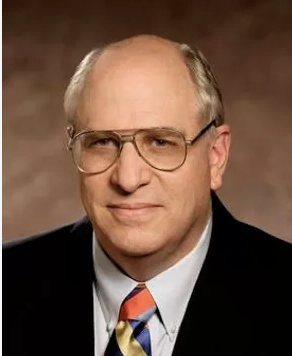
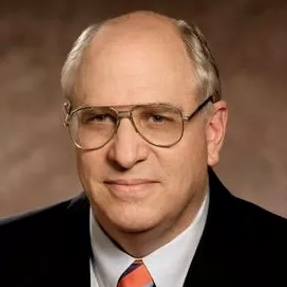
commented out a lot of things, adjusted some text, changed about us section to circle images

Changed region(s): [[0.0, 0.0, 1.0, 1.0], [0.1951, 0.0279, 0.7805, 0.3066], [0.8362, 0.0, 0.8641, 0.0279]]

diff --git a/index.html b/index.html
@@ -69,7 +69,11 @@
     <div class="container">
       <h1>Welcome!</h1>
       <p>
-        Value proposition goes here.
+        Sensole is an insole biometric monitoring device for Parkinson’s
+        patients that acts as both a bridge between the doctor’s office and a
+        patient’s daily activities, and as a research tool to further understand
+        potential diagnosis patterns and disease progression.  At the same time,
+        Sensole empowers patients to take part in their own healthcare.
       </p>
 
       <h2>How can we help you?</h2>
@@ -86,6 +90,8 @@
           <h2>Patients</h2>
         </div>
         <h3>You're taking charge of your healthcare.</h3>
+
+        <h4>Why Sensole?</h4>
 
         <h4>How to use:</h4>
         <ol>
@@ -106,18 +112,13 @@
           </li>
         </ol>
 
+        <!--
         <div align="center">
           <video height="300px" width="500px" controls autostart="false">
             <source src="./placeholder-video.mp4" type="video/mp4">
           </video>
         </div>
-
-        <form action="action_page.php">
-          <h2>Keep in Touch!</h2>
-          <label><b>Email:</b></label>
-          <input type="text" placeholder="Enter Email" name="email" required>
-          <button type="submit" class="signupbtn">Sign Up</button>
-        </form>
+      -->
 
       </section>
     </div>
@@ -159,18 +160,13 @@
           in culpa qui officia deserunt mollit anim id est laborum."
         </p>
 
+        <!--
         <div align="center">
           <video height="300px" width="500px" controls autostart="false">
             <source src="./placeholder-video.mp4" type="video/mp4">
           </video>
         </div>
-
-        <form action="action_page.php">
-          <h2>Keep in Touch!</h2>
-          <label><b>Email:</b></label>
-          <input type="text" placeholder="Enter Email" name="email" required>
-          <button type="submit" class="signupbtn">Sign Up</button>
-        </form>
+      -->
 
       </section>
     </div>
@@ -181,6 +177,8 @@
         <div class="page-header" id="about">
           <h2>About Us</h2>
         </div>
+
+        <!--
         <h4>Helping Parkinson's Patients One Step at a Time</h4>
         <p>
           Parkinson's Disease (PD)  is a neurodegenerative disease that
@@ -230,35 +228,28 @@
           nerves and somehow smoothes the communication channel to the brain.
           We hope to bring this laboratory technology to commercialization.
         </p>
+      -->
 
         <div class="directors">
           <h3>Our Board Of Directors</h3>
 
           <div class="row">
-            <div class ="col-md-3">
+            <div class="col-md-4">
+              <img class="img-circle center-block" src="./images/litherland.png" width=230px>
+              <!--
               <h4>Theresa Litherland, MBA</h4>
-            </div>
-            <div class ="col-md-3">
-              <img src="./images/litherland.png" width=180px>
-            </div>
-            <div class ="col-md-6">
               <p>
                 A healthcare innovator with experience in patient centered
                 design, digital marketing, connected medical devices, innovative
                 pharmaceutical packaging.   Theresa has always been motivated by
                 the challenge of developing solutions that improve life for patients.
               </p>
+              -->
             </div>
-          </div>
-
-          <div class="row top-buffer">
-            <div class ="col-md-3">
+            <div class="col-md-4">
+              <img class="img-circle center-block" src="./images/pretzer.png" width=230px>
+              <!--
               <h4>Ingrid Pretzer-Aboff BSN, MA, PhD</h4>
-            </div>
-            <div class ="col-md-3">
-              <img src="./images/pretzer.png" width=180px>
-            </div>
-            <div class ="col-md-6">
               <p>
                 Dr. Pretzer-Aboff has dedicated 30 years to working with
                 Parkinson's patients.  She is well known in Parkinson's research
@@ -270,71 +261,65 @@
                 educator for the Parkinson's Disease Foundation.  She is the
                 first awardee of the Edmund J Safra Visiting Nurse Faculty Program.
               </p>
+              -->
             </div>
-          </div>
-
-          <div class="row top-buffer">
-            <div class ="col-md-3">
+            <div class="col-md-4">
+              <img class="img-circle center-block" src="./images/chase.png" width=230px>
+              <!--
               <h4>Bruce Chase, PhD</h4>
-            </div>
-            <div class ="col-md-3">
-              <img src="./images/chase.png" width=180px>
-            </div>
-            <div class ="col-md-6">
               <p>
                 Dr. Bruce Chase, Principle Investigator, Engineering Professor
                 and DuPont Fellow.
               </p>
+              -->
             </div>
           </div>
-
-          <div class="row top-buffer">
-            <div class ="col-md-3">
+          <br>
+          <div class="row">
+            <div class="col-md-4">
+              <img class="img-circle center-block" src="./images/rabolt.png" width=230px>
+              <!--
               <h4>John Rabolt, PhD</h4>
-            </div>
-            <div class ="col-md-3">
-              <img src="./images/rabolt.png" width=180px>
-            </div>
-            <div class ="col-md-6">
               <p>
                 Department Chair, Materials Science, UD.  IBM researcher, Founder
                 PAIR Tech
               </p>
+              -->
             </div>
-          </div>
-
-          <div class="row top-buffer">
-            <div class ="col-md-3">
+            <div class="col-md-4">
+              <img class="img-circle center-block" src="./images/jones.png" width=230px>
+              <!--
               <h4>Scott Jones, PhD</h4>
-            </div>
-            <div class ="col-md-3">
-              <img src="./images/jones.png" width=180px>
-            </div>
-            <div class ="col-md-6">
               <p>
                 Dept. Chair, UD Accounting, Chair, Delaware Innovation Fund,
                 Founder, PAIR Tech
               </p>
+              -->
             </div>
-          </div>
-
-          <div class="row top-buffer">
-            <div class ="col-md-3">
+            <div class="col-md-4">
+              <img class="img-circle center-block" src="./images/sreekanth.png" width=230px>
+              <!--
               <h4>Param Sreekanth, MBA</h4>
-            </div>
-            <div class ="col-md-3">
-              <img src="./images/sreekanth.png" width=180px>
-            </div>
-            <div class ="col-md-6">
               <p>
                 Param has significant previous experience with new venture
                 development and business strategy.  He had a very successful
                 career as a DuPont Merger and Acquisitions expert.  Param is
                 dedicated to delivering innovative solutions in healthcare.
               </p>
+              -->
             </div>
           </div>
       </section>
+
+      <br>
+
+      <!-- Email Signup -->
+      <form action="action_page.php">
+        <h2>Keep in Touch!</h2>
+        <label><b>Email:</b></label>
+        <input type="text" placeholder="Enter Email" name="email" required>
+        <button type="submit" class="signupbtn">Sign Up</button>
+      </form>
 
     </div>
 

diff --git a/main.css b/main.css
@@ -34,3 +34,13 @@ body {
 .top-buffer {
   margin-top: 20px;
 }
+
+.img-circle {
+    border-radius: 50%;
+}
+
+.center-block {
+    display: block;
+    margin-left: auto;
+    margin-right: auto;
+ }
